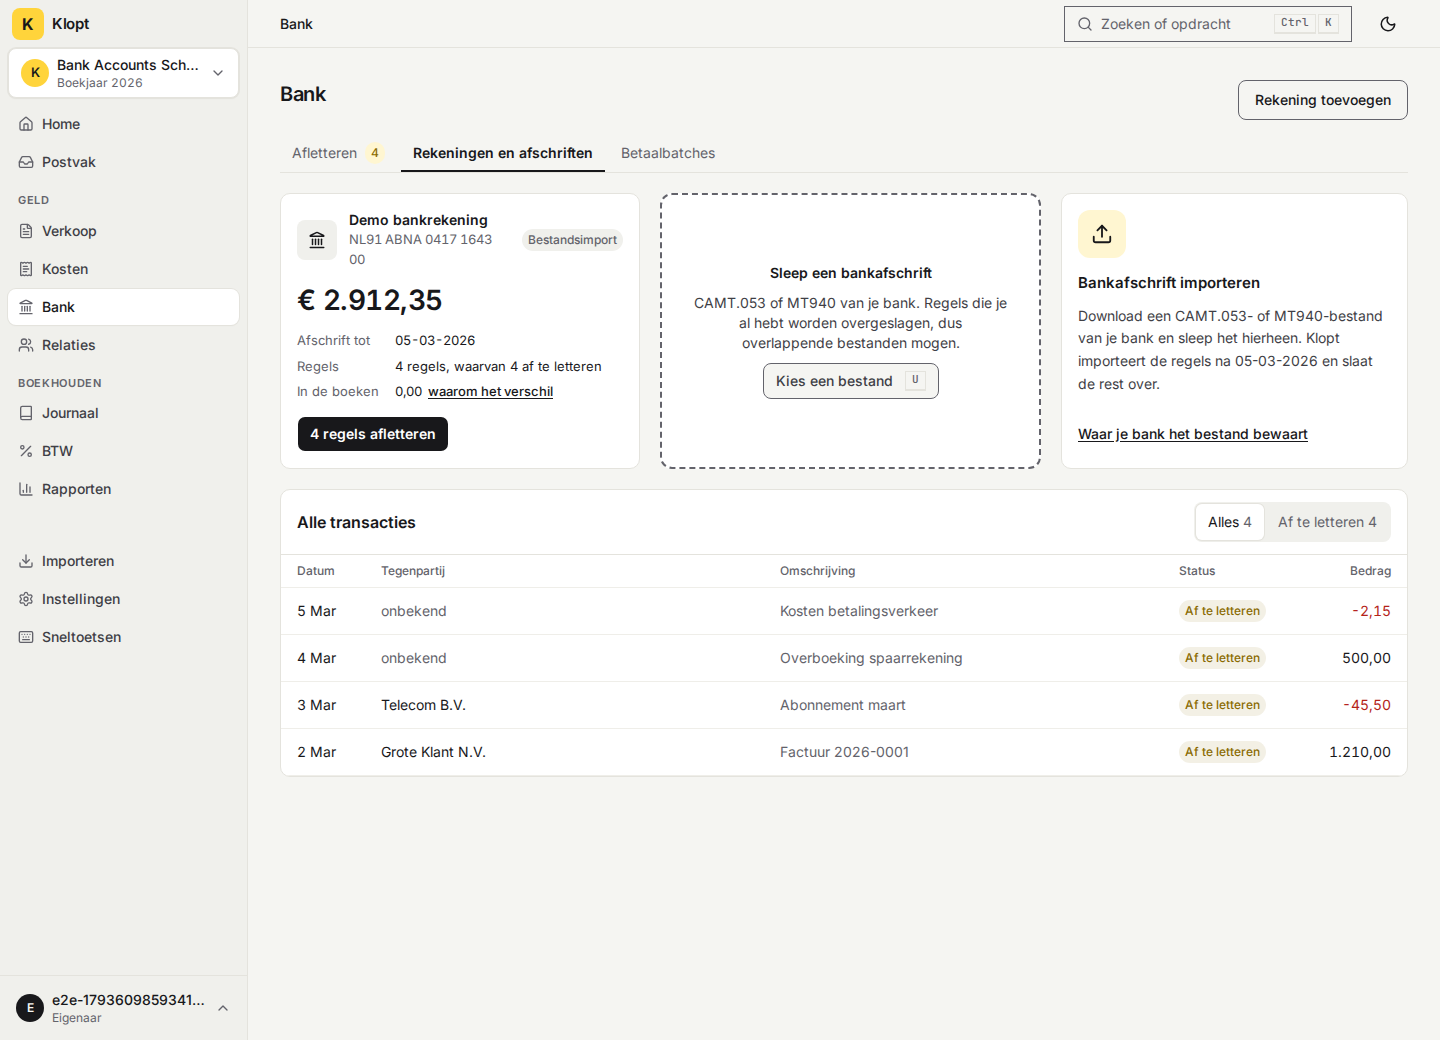
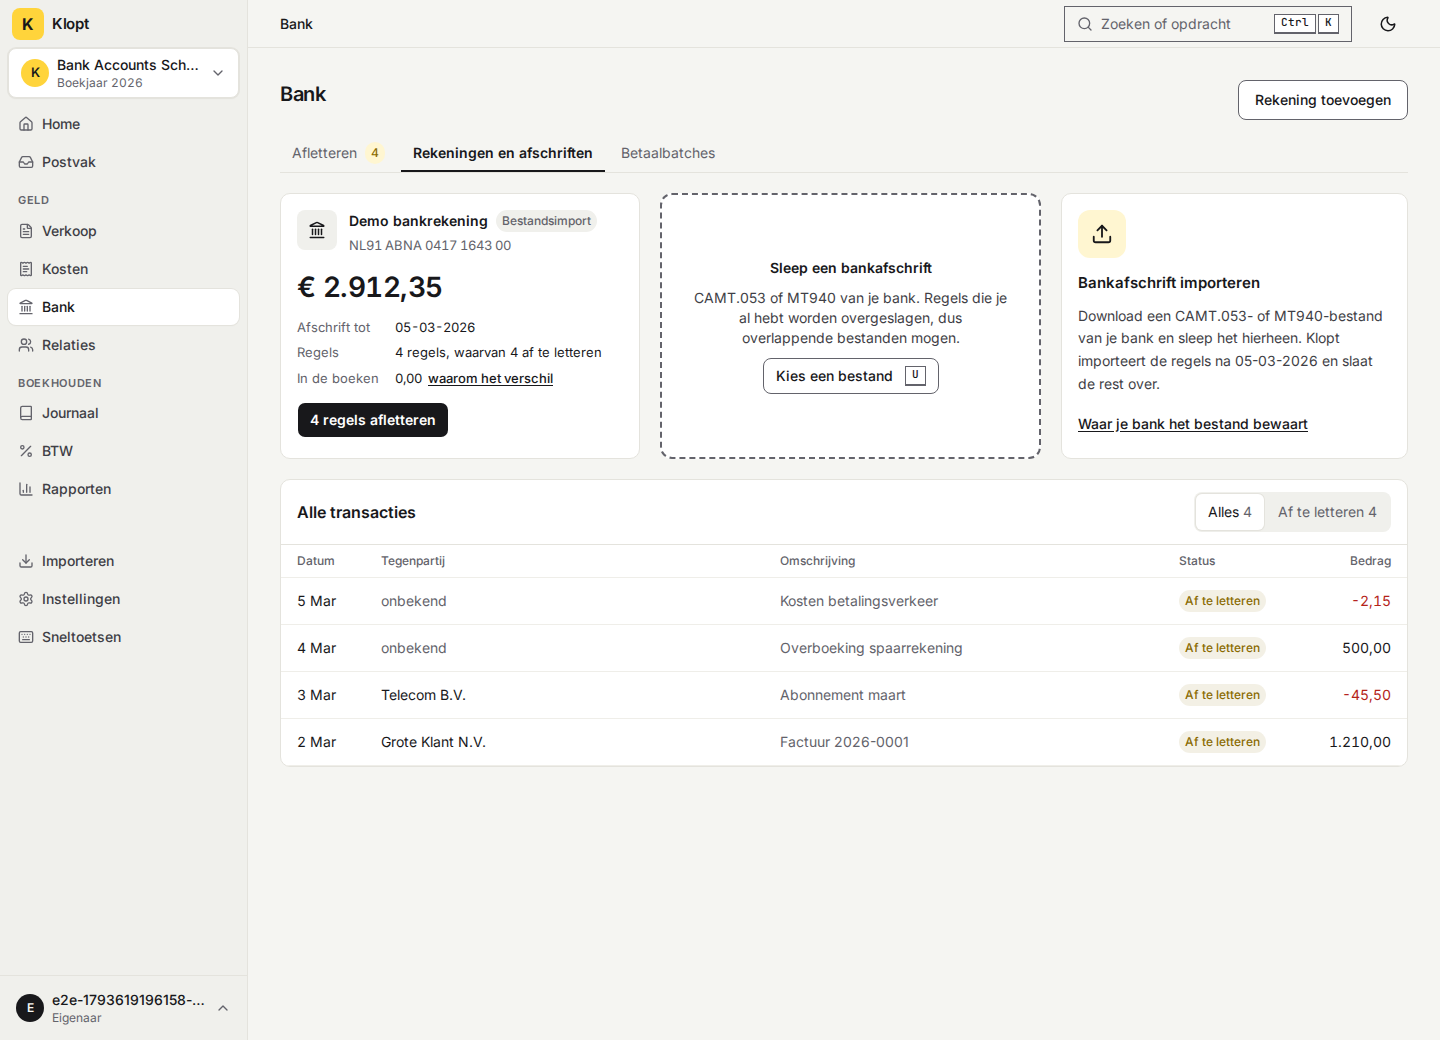
fix(web): keep BankAccounts IBAN on one line beside badge
Move Bestandsimport off the IBAN row (alongside the account name) and
whitespace-nowrap the IBAN so it no longer wraps to "…1643" / "00".
Re-shot seeded account-card PNGs at 1440/390 × light/dark for #171.

diff --git a/apps/web/src/routes/_app/bank.index.tsx b/apps/web/src/routes/_app/bank.index.tsx
@@ -404,21 +404,23 @@ function Bank() {
                 data-slot="bank-account-card"
                 className="border-border bg-surface flex min-w-[min(100%,360px)] flex-1 flex-col gap-3.5 rounded-[var(--radius-lg)] border p-4"
               >
-                <div className="flex items-center gap-3">
-                  <span className="bg-surface-sunken text-ink inline-flex size-10 items-center justify-center rounded-[var(--radius-md)]">
+                <div className="flex items-start gap-3">
+                  <span className="bg-surface-sunken text-ink inline-flex size-10 shrink-0 items-center justify-center rounded-[var(--radius-md)]">
                     <Landmark className="size-[18px]" aria-hidden="true" />
                   </span>
-                  <span className="flex min-w-0 flex-1 flex-col">
-                    <strong className="text-ink truncate text-sm font-semibold">
-                      {account.name}
-                    </strong>
-                    <span className="text-ink-muted tabular text-[13px]">
+                  <div className="flex min-w-0 flex-1 flex-col gap-1">
+                    <div className="flex flex-wrap items-center gap-2">
+                      <strong className="text-ink truncate text-sm font-semibold">
+                        {account.name}
+                      </strong>
+                      <Badge variant="secondary" className="shrink-0 font-medium">
+                        {t('bank.fileImport')}
+                      </Badge>
+                    </div>
+                    <span className="text-ink-muted tabular whitespace-nowrap text-[13px]">
                       {formatIbanDisplay(account.iban)}
                     </span>
-                  </span>
-                  <Badge variant="secondary" className="shrink-0 font-medium">
-                    {t('bank.fileImport')}
-                  </Badge>
+                  </div>
                 </div>
 
                 <p className="text-ink text-[28px] leading-[34px] font-semibold tracking-[-0.02em] tabular">

diff --git a/apps/web/e2e/pr-screenshots-bank-accounts.spec.ts b/apps/web/e2e/pr-screenshots-bank-accounts.spec.ts
@@ -128,8 +128,32 @@ test('02 seeded — desktop-light 1440 (must-have)', async ({ page }) => {
   await expect(page.getByText('Demo bankrekening')).toBeVisible()
   await expect(page.getByText('NL91 ABNA 0417 1643 00')).toBeVisible()
   await expect(page.getByText('Bankafschrift importeren')).toBeVisible()
+  // IBAN must stay on one line (Design: badge moved off the IBAN row).
+  const ibanBox = await page.getByText('NL91 ABNA 0417 1643 00').boundingBox()
+  expect(ibanBox).not.toBeNull()
+  expect(ibanBox!.height).toBeLessThan(28)
   await shoot(page, '02-bank-accounts-seeded-light-desktop-1440.png', {
     width: 1440,
     height: 1040,
   })
+})
+
+test('02 seeded — light/dark × 1440/390 (IBAN nowrap check)', async ({ page }) => {
+  await openAdmin(page)
+  await seedBank(page)
+  for (const theme of ['light', 'dark'] as const) {
+    for (const size of [
+      { width: 1440, height: 1040, tag: 'desktop-1440' },
+      { width: 390, height: 844, tag: 'mobile-390' },
+    ] as const) {
+      await persistThemeCookie(page, theme)
+      await page.goto('/bank')
+      await setTheme(page, theme)
+      await expect(page.getByText('NL91 ABNA 0417 1643 00')).toBeVisible()
+      const ibanBox = await page.getByText('NL91 ABNA 0417 1643 00').boundingBox()
+      expect(ibanBox).not.toBeNull()
+      expect(ibanBox!.height).toBeLessThan(28)
+      await shoot(page, `02-bank-accounts-seeded-${theme}-${size.tag}.png`, size)
+    }
+  }
 })
